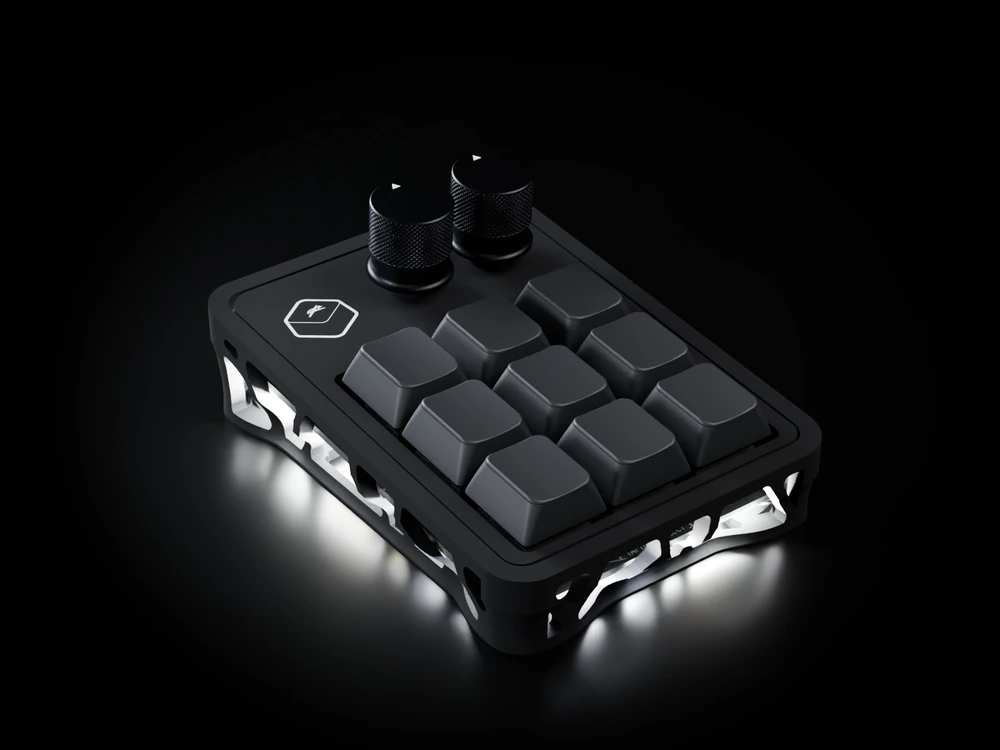
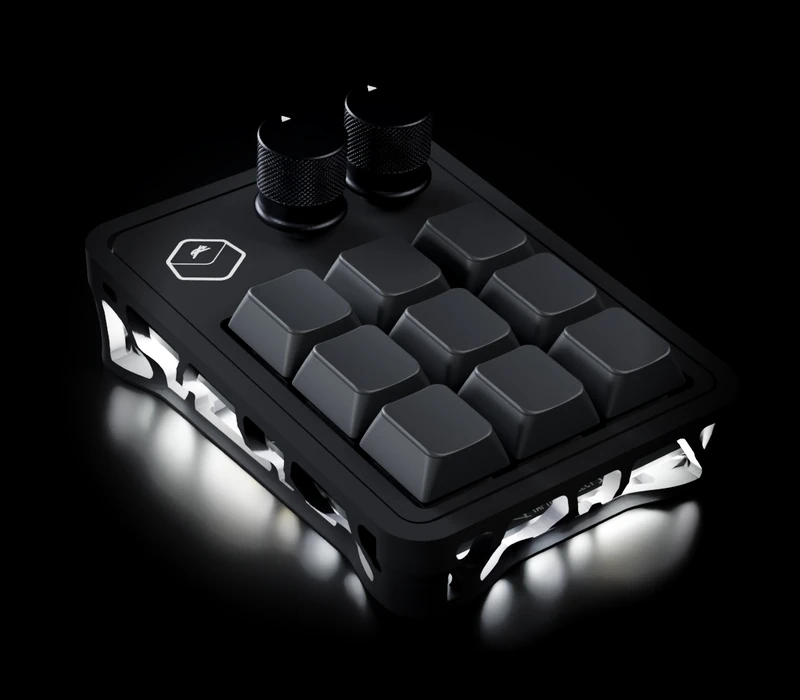
Landing: centred signup page — name, product, form
Claude-Session: https://claude.ai/code/session_01Sx63ykZiSXbqHxXasyWSmR

diff --git a/src/site/site.css b/src/site/site.css
@@ -10,7 +10,7 @@
  */
 
 .tt {
-  --bg: #050506;
+  --bg: #000000;
   --bg-2: #0b0b0d;
   --ink: #ffffff;
   --ink-2: #ededed;
@@ -377,18 +377,20 @@
 .tt .cta { padding: clamp(110px, 14vw, 190px) 0; background: radial-gradient(ellipse 760px 300px at 50% 55%, rgba(255, 255, 255, 0.06), rgba(0, 0, 0, 0) 70%), var(--bg); }
 .tt .cta h2 { font-size: clamp(48px, 6vw, 96px); letter-spacing: -0.04em; }
 
-/* ------------------------------------------------- one-screen landing */
-.tt .solo { position: relative; min-height: 100svh; display: flex; align-items: center; overflow: hidden; background: #000; }
-.tt .solo-img { position: absolute; inset: 0; }
-.tt .solo-img img { position: absolute; top: 0; right: -4%; height: 100%; width: 74%; object-fit: cover; object-position: 50% 50%; }
-.tt .solo-shade { position: absolute; inset: 0; background: linear-gradient(90deg, #000 0%, rgba(0,0,0,.9) 28%, rgba(0,0,0,0) 55%), linear-gradient(0deg, rgba(0,0,0,.7), rgba(0,0,0,0) 30%); }
-.tt .solo-copy { position: relative; z-index: 2; padding: 120px 0 80px; }
-.tt .solo-copy h1 { font-size: clamp(46px, 6vw, 96px); letter-spacing: -0.04em; line-height: 1; max-width: 9em; }
-.tt .solo-copy .lede { margin-top: 22px; max-width: 26em; }
-.tt .solo-copy form, .tt .solo-copy .wl-done { margin-top: 34px; max-width: 500px; }
+/* ------------------------------------------------------- landing */
+.tt .land { min-height: 100svh; box-sizing: border-box; display: flex; flex-direction: column; align-items: center; justify-content: center; text-align: center; padding: 84px 20px 40px; background: #000; }
+.tt .land-tag { display: inline-flex; align-items: center; gap: 8px; height: 30px; padding: 0 14px; border-radius: 15px; font-size: 13px; font-weight: 500; color: var(--mute); box-shadow: inset 0 0 0 1px var(--line-2); }
+.tt .land-tag::before { content: ''; width: 6px; height: 6px; border-radius: 50%; background: #fff; box-shadow: 0 0 8px #fff; }
+.tt .land h1 { margin-top: 22px; font-size: clamp(44px, 6.4vw, 96px); letter-spacing: -0.045em; line-height: 1; }
+.tt .land .lede { margin: 16px auto 0; font-size: clamp(17px, 1.5vw, 21px); color: var(--mute); }
+.tt .land-img { display: block; width: min(640px, 100%); margin: clamp(8px, 2vh, 24px) auto 0; }
+.tt .land-img img { display: block; width: 100%; height: auto; max-height: 48svh; object-fit: contain; margin: 0 auto; }
+.tt .land-form { width: min(480px, 100%); margin-top: clamp(4px, 1.5vh, 20px); }
+.tt .land-form .wl-row, .tt .land-form .wl-done { margin: 0 auto; max-width: 480px; text-align: left; }
+.tt .land-form .wl-note { margin-top: 14px; text-align: center; }
+.tt .land-form .wl-err { text-align: center; }
 @media (max-width: 860px) {
-  .tt .solo { align-items: flex-end; }
-  .tt .solo-img img { top: 64px; right: 0; width: 100%; height: 56%; object-position: 50% 50%; }
-  .tt .solo-shade { background: linear-gradient(0deg, #000 0%, #000 40%, rgba(0,0,0,0) 66%); }
-  .tt .solo-copy { padding: 0 0 48px; }
+  .tt .land { padding: 92px 18px 40px; justify-content: flex-start; }
+  .tt .land-img img { max-height: 46svh; }
+  .tt .land { justify-content: center; }
 }

diff --git a/src/pages/Landing.tsx b/src/pages/Landing.tsx
@@ -18,16 +18,19 @@ export default function Landing() {
         path="/"
         image="/og.jpg"
       />
-      <section className="solo" id="waitlist">
-        <picture className="solo-img">
+      <section className="land" id="waitlist">
+        <div className="land-copy">
+          <span className="land-tag">Coming soon</span>
+          <h1>Taptile Dialect</h1>
+          <p className="lede">Nine keys. Two knobs. Underglow.</p>
+        </div>
+        <picture className="land-img">
           <source media="(max-width: 860px)" srcSet="/media/hero-sm.webp" />
           <img src="/media/hero.webp" alt="The Taptile Dialect macro pad with white underglow" fetchPriority="high" />
         </picture>
-        <div className="solo-shade" aria-hidden="true" />
-        <div className="shell solo-copy">
-          <h1>Taptile Dialect</h1>
-          <p className="lede">Nine keys, two knobs, underglow. Join the waitlist and get the first batch before anyone else.</p>
-          <WaitlistForm place="hero" />
+        <div className="land-form">
+          <WaitlistForm place="hero" note={false} />
+          <p className="wl-note">Join the waitlist. One email when the first batch is ready. No payment.</p>
         </div>
       </section>
     </>

diff --git a/index.html b/index.html
@@ -3,7 +3,7 @@
   <head>
     <meta charset="UTF-8" />
     <meta name="viewport" content="width=device-width, initial-scale=1.0, viewport-fit=cover" />
-    <meta name="theme-color" content="#050506" />
+    <meta name="theme-color" content="#000000" />
 
     <title>Taptile Dialect — nine keys, two knobs, one app</title>
     <meta
@@ -33,7 +33,7 @@
       rel="stylesheet"
     />
   </head>
-  <body style="background:#050506">
+  <body style="background:#000">
     <div id="root"></div>
     <script type="module" src="/src/main.tsx"></script>
   </body>

diff --git a/src/site/chrome.tsx b/src/site/chrome.tsx
@@ -53,9 +53,11 @@ export function Nav() {
           ))}
         </nav>
         <span className="spacer" />
-        <Link to="/#waitlist" className="btn btn-white">
-          Join the waitlist
-        </Link>
+        {location.pathname !== '/' && (
+          <Link to="/#waitlist" className="btn btn-white">
+            Join the waitlist
+          </Link>
+        )}
         <button
           type="button"
           className="menu-btn"
